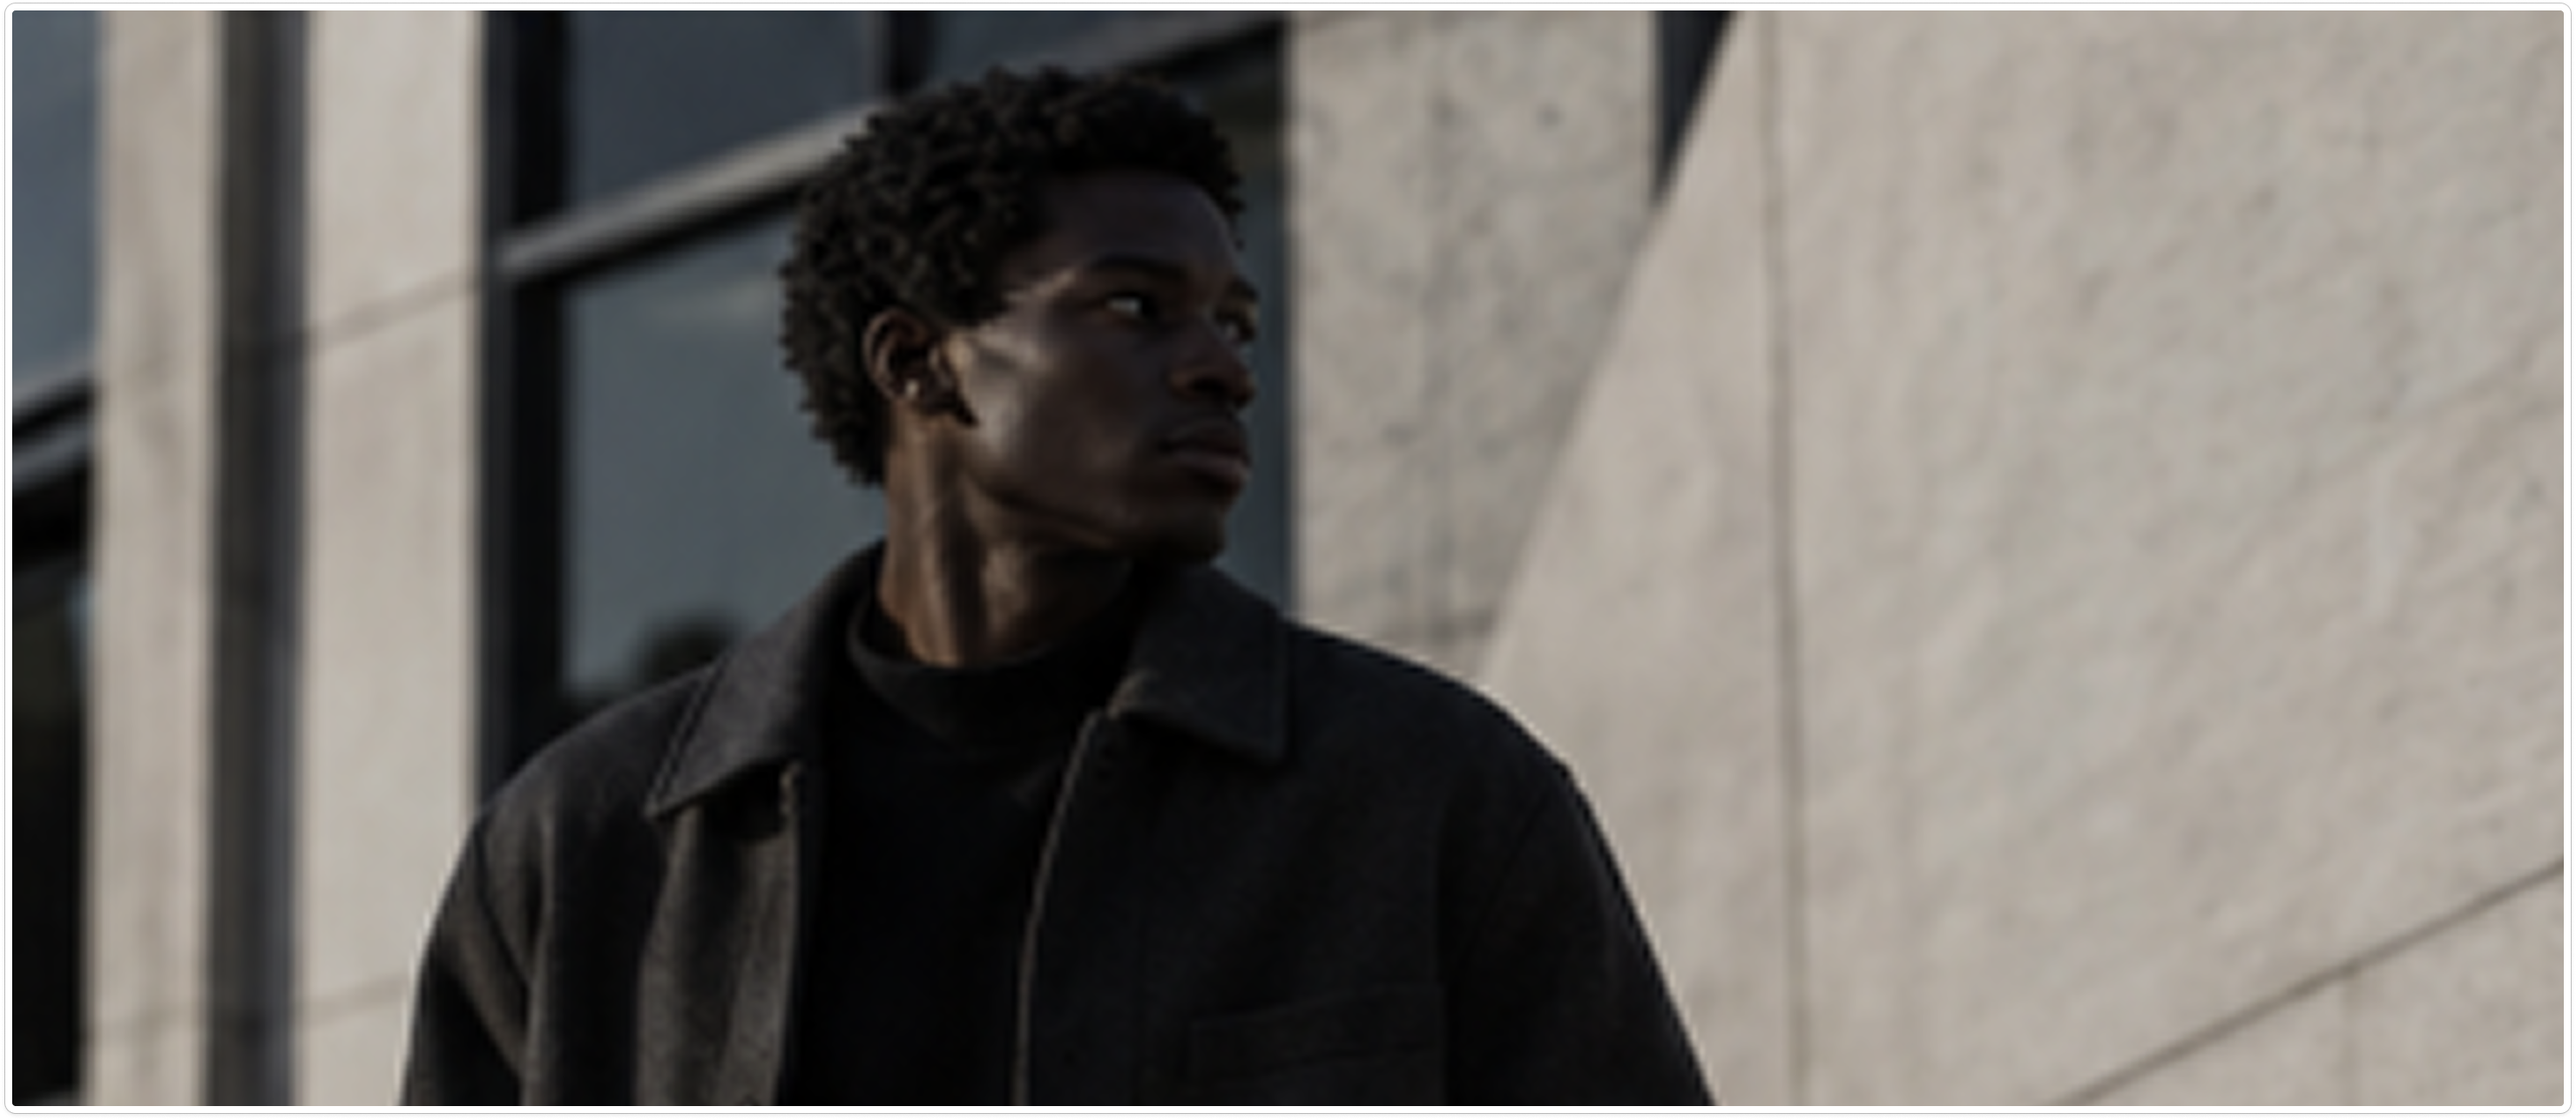
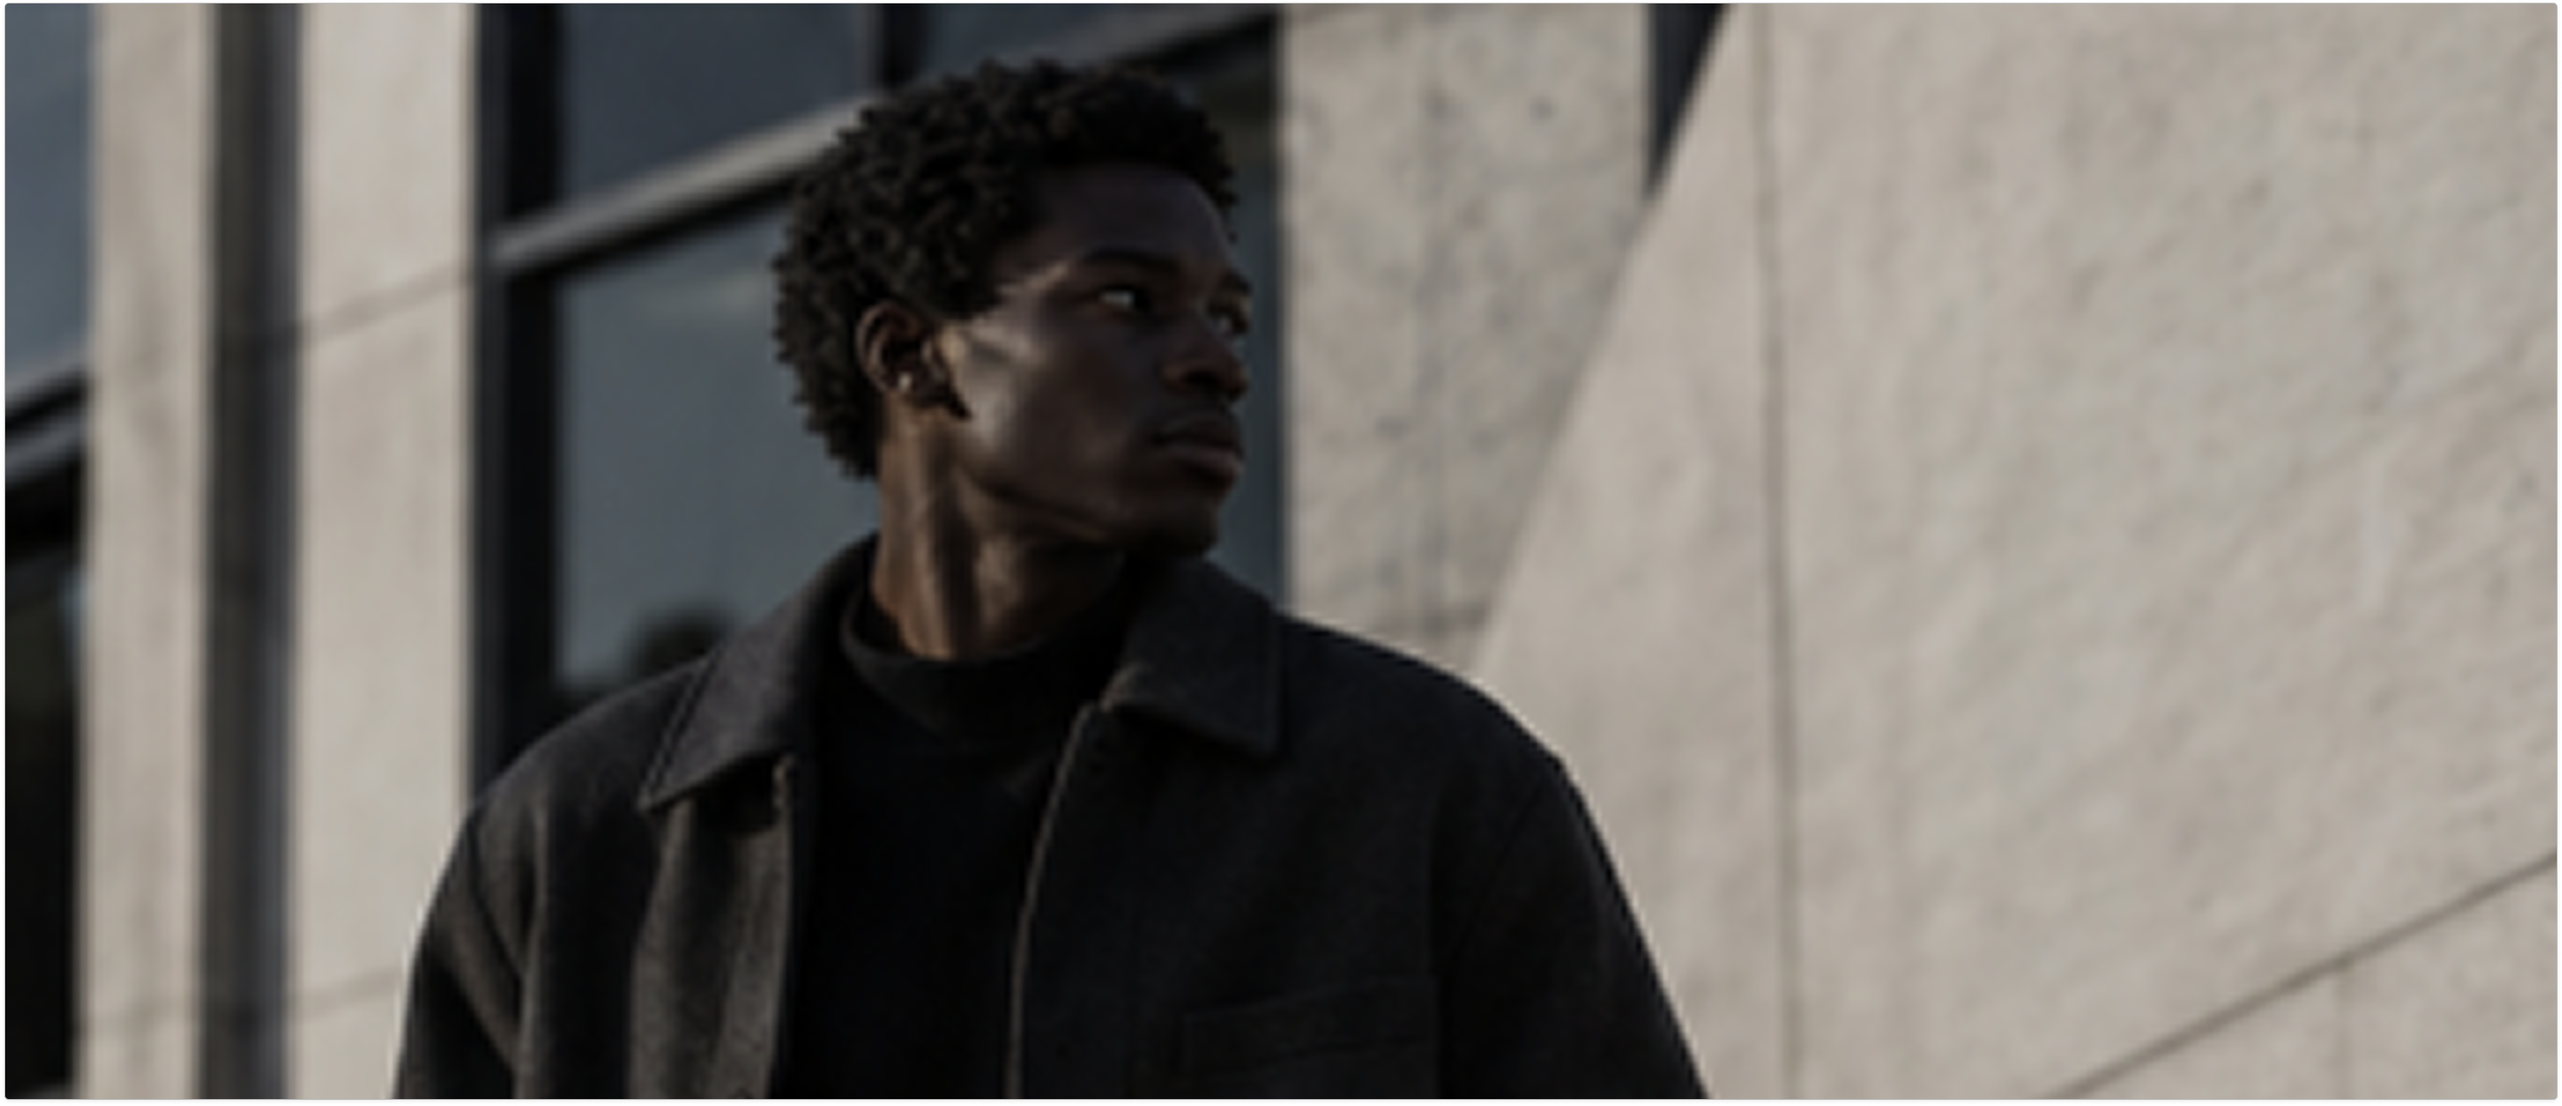
productlist

diff --git a/productlist.html b/productlist.html
@@ -1,0 +1,24 @@
+<!DOCTYPE html>
+<html lang="en">
+<head>
+    <meta charset="UTF-8">
+    <meta name="viewport" content="width=device-width, initial-scale=1.0">
+    <title>Document</title>
+</head>
+<body>
+    
+
+
+
+<main class="product-list-page">
+    <h1>ALL PRODUCTS</h1>
+
+    <div class="productlist"></div>
+</main>
+
+<script src="js/productlist.js" defer></script>
+
+
+
+</body>
+</html>

diff --git a/css/index.css b/css/index.css
@@ -34,7 +34,22 @@ margin-top: 0px;
 }
 
 
-.fourtimestwo {
+.image-grid {
+    display: grid;
+    grid-template-columns: repeat(9, 1fr);
+    gap: 0px;
+}
+
+.image-grid img {
+    width: 100%;
+    height: 100%;
+    object-fit: cover;
+}
+
+.image-grid img:first-child {
+    grid-column: span 7;
+}
+
+.image-grid img:last-child {
     grid-column: span 2;
-    grid-row: span 2;
 }

diff --git a/index.html b/index.html
@@ -55,5 +55,13 @@
     <div class="productlist"></div>
 </section>
 </div>
+
+<div class="image-grid">  
+<img src="imgs/bannerbtm1.png" alt="Image 1">
+<img src="imgs/bannerbtm2.png" alt="Image 2">
+
+
+</div>
+
 </body>
 </html>
